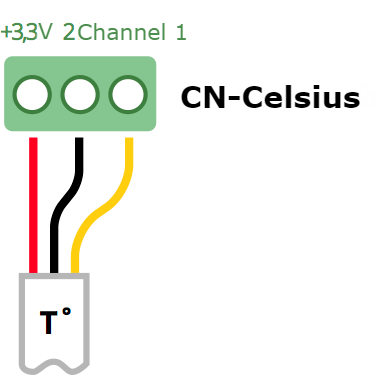
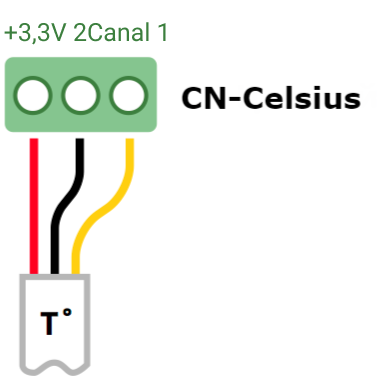
картинки для второго раздела и перевод третьего раздела

diff --git a/esp/common/05-02-firmware-driver.md b/esp/common/05-02-firmware-driver.md
@@ -1,76 +1,76 @@
-## Подключение прибора к компьютеру {#firmware-driver}
+## Conexión del equipo a la computadora {#firmware-driver}
 
-На компьютере, к которому подключается прибор, должна быть установлена операционная система семейства Windows (XP/7/8/10). Разрядность операционной системы (32 или 64 бита) значения не имеет.
+En la computadora a la cual se conecta al equipo, debe estar instalado un sistema operativo de la familia Windows (XP/7/8/10). No importa si el sistema operativo es de 32 o de 64 bits.
 
-> Перед тем, как подключать прибор к компьютеру, *настоятельно рекомендуется* подать на него основное или резервное питание. Если прибор будет запитан *только* по USB, то его работа может быть нестабильной.
+> Antes de conectar el equipo a la computadora, le recomendamos *insistentemente* que lo conecte a una alimentación principal o de reserva. Si el equipo se alimenta únicamente por USB, puede funcionar de forma no estable.
 
-Прежде чем приступить к работе с прибором, необходимо установить драйвер. Прибор подключается к компьютеру с помощью кабеля USB-Mini, а драйвер – это специальное программное обеспечение, которое позволяет программам, с которыми взаимодействует пользователь, обмениваться данными с прибором.
+Antes de empezar a trabajar con el equipo, hay que instalar el controlador. El equipo se conecta a la computadora mediante un cable USB-Mini y el controlador es un software especial que le permite a los programas, con los cuales interacciona el usuario, intercambiar datos con el equipo.
 
-Для всех операционных систем поставляется один и тот же драйвер.
+Para todos los sistemas operativos se suministra el mismo controlador.
 
-## Установка драйвера в Windows XP и Windows 7
+## Instalación del controlador en Windows XP y Windows 7
 
-При первом подключении прибора к компьютеру в системной области панели задач появится уведомление о том, что найдено новое оборудование.
-Установку драйвера можно оуществить через Диспетчер устройств. Для этого нужно войти в меню «Пуск», щелкнуть правой кнопкой мыши на пункт «Компьютер» и выбрать Управление, затем в меню слева выбрать «Диспетчер устройств».
+Durante la primera conexión del equipo a la computadora en la bandeja del sistema del panel de tareas aparecerá una notificación de que fue encontrado un dispositivo nuevo. La instalación del controlador puede realizarse a través del Administrador de dispositivos. Para ello hay que entrar en el menú "Inicio", pulsar el botón derecho del ratón en "Equipo" y seleccionar Administrar, a continuación en el medio de la izquierda seleccionar "Administrador de dispositivos".
 
 \imgcapt{img/05-02-driver-02.png}{}
 
 \imgcapt{img/05-02-driver-03.png}{}
 
-Необходимо щелкнуть правой кнопкой мыши по устройству Souz CDC и выбрать пункт меню «Обновить драйверы».
+Hay que pulsar el botón derecho del ratón sobre el dispositivo Soyuz CDC y seleccionar el punto del menú "Actualizar software del controlador".
 
 \imgcapt{img/05-02-driver-04.png}{}
 
-Нужно отказаться от предложения автоматически найти драйвер для нового оборудования, выбрать установку драйвера вручную.
+Hay que renunciar a la propuesta de buscar automáticamente software del controlador actualizado para un nuevo dispositivo, seleccionando la instalación del controlador de forma manual.
 
-\imgcapt{img/05-02-driver-05.png}{Выбор установки вручную}
+\imgcapt{img/05-02-driver-05.png}{Selección de instalación manual}
 
-Указать путь к папке **Driver** и нажать Далее.
+Especificar la ruta hacia el archivo **Driver** y pulsar Siguiente.
 
-\imgcapt{img/05-02-driver-06.png}{Выбор места поиска драйвера}
+\imgcapt{img/05-02-driver-06.png}{Selección del lugar de búsqueda del controlador}
 
-Драйвер для прибора «Норд GSM» не имеет цифровой подписи. Поэтому необходимо явно подтвердить операционной системе необходимость его установки.
+El controlador para el equipo "Nord GSM" no tiene firma digital. Por ello hay que confirmarle expresamente al sistema operativo de que hace falta instalarlo.
 
-\imgcapt{img/05-02-driver-07.png}{Подтверждение установки драйвера без цифровой подписи}
+\imgcapt{img/05-02-driver-07.png}{Confirmar la instalación del controlador sin firma digital}
 
-После завершения установки драйвера необходимо нажать на кнопку «Закрыть».
+Después de finalizar la instalación del controlador hay que pulsar el botón "Cerrar".
 
-\imgcapt{img/05-02-driver-08.png}{Завершение установки драйвера}
+\imgcapt{img/05-02-driver-08.png}{Finalización de la instalación del controlador}
 
-Для того чтобы убедиться в том, что драйвер для устройства установлен, можно открыть диспетчер устройств Windows и найти виртуальный последовательный порт, который соответствует прибору, подключенному к компьютеру.
+Para asegurarse que el controlador para el dispositivo está instalado, se puede abrir el Administrador de dispositivos de Windows y buscar el puerto serie virtual que corresponde al equipo conectado a la computadora.
 
-\imgcapt{img/05-02-driver-09.png}{Последовательный порт прибора в «Диспетчере устройств»}
+\imgcapt{img/05-02-driver-09.png}{Puerto serie del equipo en el "Administrador de dispositivos"}
 
 
-## Установка драйвера в Windows 8
+## Instalación del controlador en Windows 8
 
-Операционная система Windows 8 не позволяет устанавливать драйвера без цифровой подписи так, как это было возможно в предыдущих версиях. Поэтому, прежде чем приступить к установке драйвера для прибора в этой операционной системе, необходимо загрузить её в специальном режиме – с  отключенной обязательной проверкой подписи драйверов.
+El sistema operativo Windows 8 no permite instalar controladores sin firma digital, tal como era posible en las versiones anteriores. Por ello, antes de empezar a instalar los controladores del equipo en este sistema operativo, hay que iniciarlo en modo especial - con comprobación obligatoria de firma de controladores deshabilitada.
 
-Для того чтобы загрузить операционную систему Windows 8 с отключенной проверкой подписи драйверов, необходимо выполнить следующую последовательность действий.
+Para iniciar el sistema operativo Windows 8 con la comprobación de la firma digital de los controladores deshabilitada, hay que hacer lo siguiente por pasos.
 
-Нажать комбинацию клавиш **Win+I**, после чего, удерживая кнопку **Shift** выбрать пункт «**Выключение**» – «**Перезагрузка**»:
+Pulsar la combinación de teclas **Win+I**, a continuación, manteniendo pulsada la tecla **Shift** seleccionar **"Apagar"** - **"Reiniciar"**
 
-\imgcapt{img/05-02-driver-10.png}{Перезагрузка для изменения параметров загрузки}
+\imgcapt{img/05-02-driver-10.png}{Reinicio para cambiar los parámetros de inicio}
 
-После того как операционная система перезагрузится, появится окно параметров запуска. Необходимо выбрать пункт «**Диагностика**»:
+Después de que el sistema operativo se reinicie, aparecerá la ventana de parámetros de inicio. Hay que seleccionar "**Solucionar problemas**";
 
-\imgcapt{img/05-02-driver-11.png}{Вход в режим диагностики}
+\imgcapt{img/05-02-driver-11.png}{Entrar en el modo de Solucionar problemas}
 
-В окне «**Диагностика**» необходимо выбрать пункт «**Дополнительные параметры**»:
+En la ventana de "**Solucionar problemas**" hay que seleccionar "**Opciones avanzadas**":
 
-\imgcapt{img/05-02-driver-12.png}{Дополнительные параметры диагностики}
+\imgcapt{img/05-02-driver-12.png}{Opciones avanzadas del menú de Solucionar problemas}
 
-В окне «**Дополнительные параметры**» нужно выбрать пункт «**Параметры загрузки**»:
+En la ventana "**Opciones avanzadas**" hay que seleccionar "**Configuración de inicio**":
 
-\imgcapt{img/05-02-driver-13.png}{Параметры загрузки операционной системы}
+\imgcapt{img/05-02-driver-13.png}{Configuración de inicio del sistema operativo}
 
-В окне «**Параметры загрузки**» нужно щелкнуть левой кнопкой мыши по кнопке «**Перезагрузить**»:
+En la ventana "**Configuración de inició**" hay que pulsar con el botón izquierdo del ratón el botón "**Reiniciar**"
 
-\imgcapt{img/05-02-driver-14.png}{Перезагрузка}
+\imgcapt{img/05-02-driver-14.png}{Reiniciar}
 
-Операционная система перезагрузится еще раз, после чего появится окно «**Параметры загрузки**». В этом окне необходимо нажать на кнопку F7, чтобы продолжить загрузку операционной системы с отключенной проверкой подписи драйверов:
+El sistema operativo se reiniciará otra vez y a continuación aparecerá la ventana "**Configuración de inicio**". En esta ventana hay que pulsar la tecla F7, para continuar el inicio del sistema operativo con la comprobación de la firma digital de los controladores deshabilitada
 
-\imgcapt{img/05-02-driver-15.png}{Отключение обязательно проверки подписи драйверов}
 
-После того как операционная система загрузится, нужно установить драйвер прибора так же, как и в операционных системах Windows XP / Windows 7. После установки драйвера необходимо еще раз перезагрузить компьютер, для того чтобы включить проверку подписи драйверов.
+\imgcapt{img/05-02-driver-15.png}{Deshabilitar el uso obligatorio de controladores firmados}
+
+Después de que el sistema operativo se reinicie, hay que instalar el controlador del equipo de la misma forma que en los sistemas operativos Windows XP / Windows 7. Después de instalar el controlador hay que reiniciar la computadora otra vez para abrir de la comprobación de la firma digital de los controladores.
 

diff --git a/esp/common/05-01-firmware-general.md b/esp/common/05-01-firmware-general.md
@@ -1,25 +1,28 @@
 \pagebreak
 
-# Обновление программного обеспечения {#firmware-general}
+# Actualización del software {#firmware-general}
 
-Прежде чем приступить к настройке прибора, необходимо убедиться, что версия программного обеспечения, которая на нем установлена, является актуальной. Для того чтобы это сделать, нужно подключить прибор к компьютеру и запустить утилиту для обновления прошивки прибора по USB.
+Antes de empezar a configurar el equipo, hay que asegurarse de que la versión del software instalada en el mismo está actualizada. Para hacerlo, hay que conectar el equipo a la computadora y ejecutar la utilidad para la actualización del firmware del equipo a través de USB.
 
-Пакет программ, которые потребуются для того, чтобы подключить прибор к компьютеру и выполнить обновление версии программного обеспечения, можно загрузить с официального сайта технической поддержки НТКФ «Си-Норд» ([support.cnord.ru](http://support.cnord.ru)), со страницы «[Файлы для загрузки](https://support.cnord.ru/hc/ru/articles/203372340)».
+El paquete de programas que se requieren para conectar el equipo a la computadora y realizar la actualización de la versión del software, se puede descargar desde el sitio oficial de soporte técnico de NTKF "C-Nord" ([support.cnord.ru](http://support.cnord.ru)), desde la página "[Файлы для загрузки](https://support.cnord.ru/hc/ru/articles/203372340)".
 
-Пакет для обновления версии программного обеспечения приборов поставляется в виде zip-архива с именем вида **CnordFirmware-YYYYMMDD-XX.XX.zip**, где **YYYYMMDD** – дата релиза программного обеспечения, а **XX.XX** – версия программного обеспечения в архиве. Содержимое архива необходимо распаковать в папку на жесткий диск компьютера. В архив включены следующие программы:
+El paquete para la actualización de la versión del software de los equipos se suministra en forma de archivo zip con un nombre de tipo **CnordFirmware-AAAAMMDD-XX.XX.zip**, donde **AAAAMMDD** - es la fecha de realización del software y **XX.XX** es la versión del software en archivo. El contenido del archivo hay que descomprimirlo en una carpeta en el disco duro de la computadora. En el archivo se incluyen los siguientes programas:
 
-* драйвер для подключения прибора к компьютеру;   
-Драйвер находится в папке **Driver**
-* утилита, предназначенная для обновления версии программного обеспечения прибора;   
-Исполняемый файл утилиты называется **CnordFirmware.exe**, именно этот файл необходимо запускать для обновления версии программного обеспечения прибора.
+* controlador para la conexión del equipo a la computadora;
+El controlador se encuentra en la carpeta **Driver**
 
-В пакет для обновления версии программного обеспечения прибора включены актуальные версии прошивок для следующих устройств: 
+* utilidad que sirve para la actualización de la versión del software del equipo;
+El archivo ejecutable de la utilidad se llama **CnordFirmware.exe**, precisamente este archivo es el que hay que ejecutar para actualizar la versión del software del equipo.
 
-* «Норд GSM», «Норд GSM WRL», «Норд LAN», «Норд RF»;
-* «Норд GSM Mini»;
-* «Норд GSM Air»;
-* «ТР-100 GSM IV»; 
-* «Сержант GSM»;
-* «Союз GSM»;
-* «Союз PCB GSM». 
+
+En el paquete para la actualización de la versión del software del equipo están incluidas las versiones actuales de firmwares para los siguientes dispositivos:
+
+* «Nord GSM», «Nord GSM WRL», «Nord LAN», «Nord RF»;
+* «Nord GSM Mini»;
+* «Nord GSM Air»;
+* «TR-100 GSM IV»;
+* «Serzhant GSM»;
+* «Soyuz GSM»;
+* «Soyuz PCB GSM».
+
 

diff --git a/esp/common/05-03-firmware-update.md b/esp/common/05-03-firmware-update.md
@@ -1,19 +1,19 @@
-## Утилита для обновления программного обеспечения {#firmware-update}
+## Utilidad de actualización del software {#firmware-update}
 
-Исполняемый файл утилиты называется **CnordFirmware.exe**, именно этот файл необходимо запускать для обновления версии программного обеспечения прибора.
+El archivo ejecutable de la utilidad se llama **CnordFirmware.exe** y es precisamente el archivo que hay que ejecutar para actualizar la versión del software del equipo.
 
-После запуска утилита выполняет поиск прибора, который подключен к компьютеру, определяет его тип и отображает версию программного обеспечения, которое на нем установлено:
+Después de ser iniciada, la utilidad realiza la búsqueda del equipo conectado a la computadora, determina su tipo y muestra la versión del software instalado en el mismo:
 
-\imgcapt{img/05-03-version-01.png}{Отображение версии программного обеспечения на устройстве}
+\imgcapt{img/05-03-version-01.png}{Visualización de la versión del software en el dispositivo}
 
-Если версия программного обеспечения на устройстве меньше, чем версия обновления, необходимо обновить прошивку на устройстве. Для этого необходимо нажать на кнопку «Обновить устройство».
+Si la versión del software del dispositivo es inferior a la versión de la actualización, hay que actualizar el firmware en el dispositivo. Para hacerlo hay que pulsar el botón "Actualizar el dispositivo".
 
-В процессе обновления прибор может быть несколько раз перезапущен. После того как обновление прошивки на устройстве будет завершено, в окне утилиты появится сообщение об этом:
+Durante el proceso de la actualización el equipo puede reiniciarse varias veces. Después de que finalice la actualización del firmware del dispositivo, en la ventana de la utilidad aparecerá el correspondiente mensaje:
 
-\imgcapt{img/05-03-version-02.png}{Процесс обновления версии программного обеспечения}
-\imgcapt{img/05-03-version-03.png}{Обновление версии программного обеспечения завершено}
+\imgcapt{img/05-03-version-02.png}{Proceso de actualización de la versión del software}
+\imgcapt{img/05-03-version-03.png}{La actualización de la versión del software ha finalizado}
 
-После этого утилиту для обновления прошивки по USB можно закрыть.
+A continuación la utilidad para la actualización del firmware por USB se puede cerrar.
 
-Если в процессе обновления появится сообщение об ошибке, рекомендуется отключить прибор от компьютера, завершить работу утилиты для обновления версии, после чего опять подключить прибор к компьютеру и запустить утилиту.
+Si durante el proceso de la actualización aparece un mensaje de error, se recomienda desconectar el equipo de la computadora, finalizar el trabajo de la utilidad para la actualización de la versión y a continuación conectar de nuevo el equipo a la computadora e iniciar la utilidad.
 
